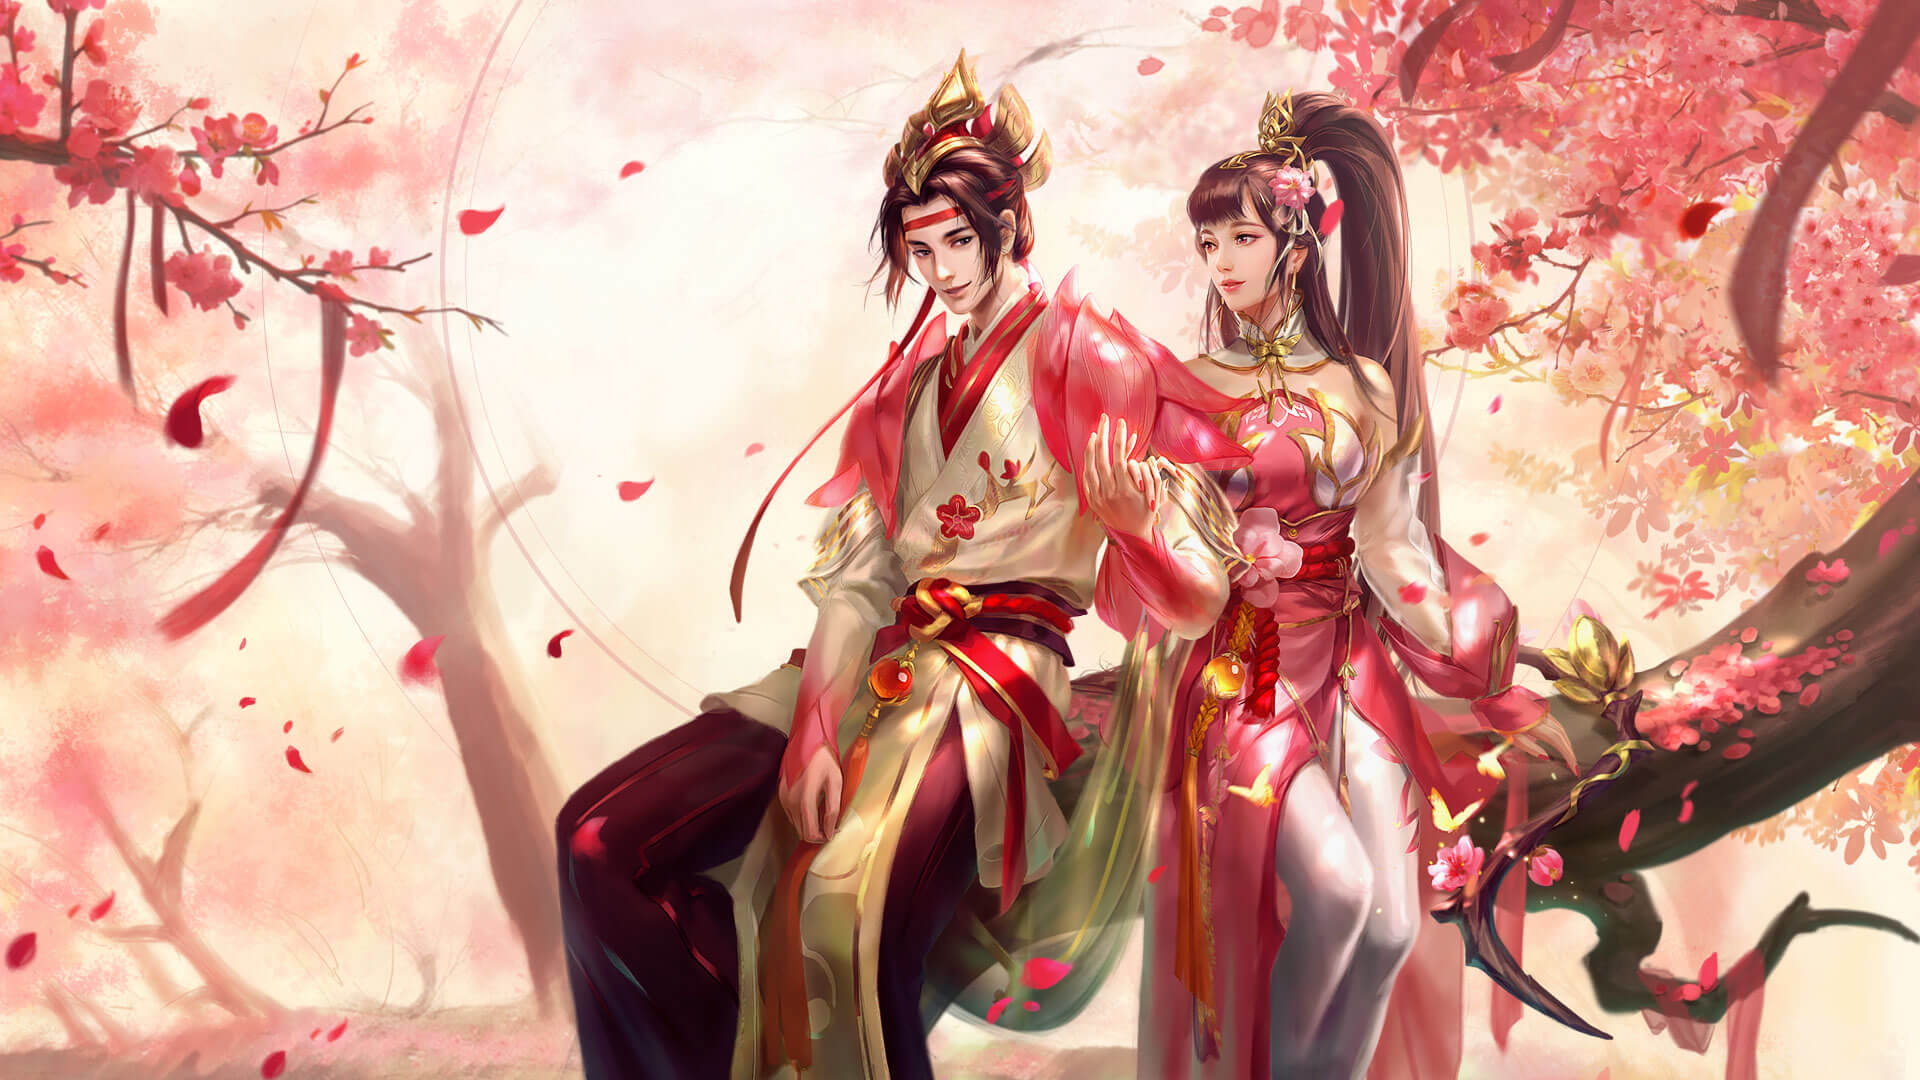
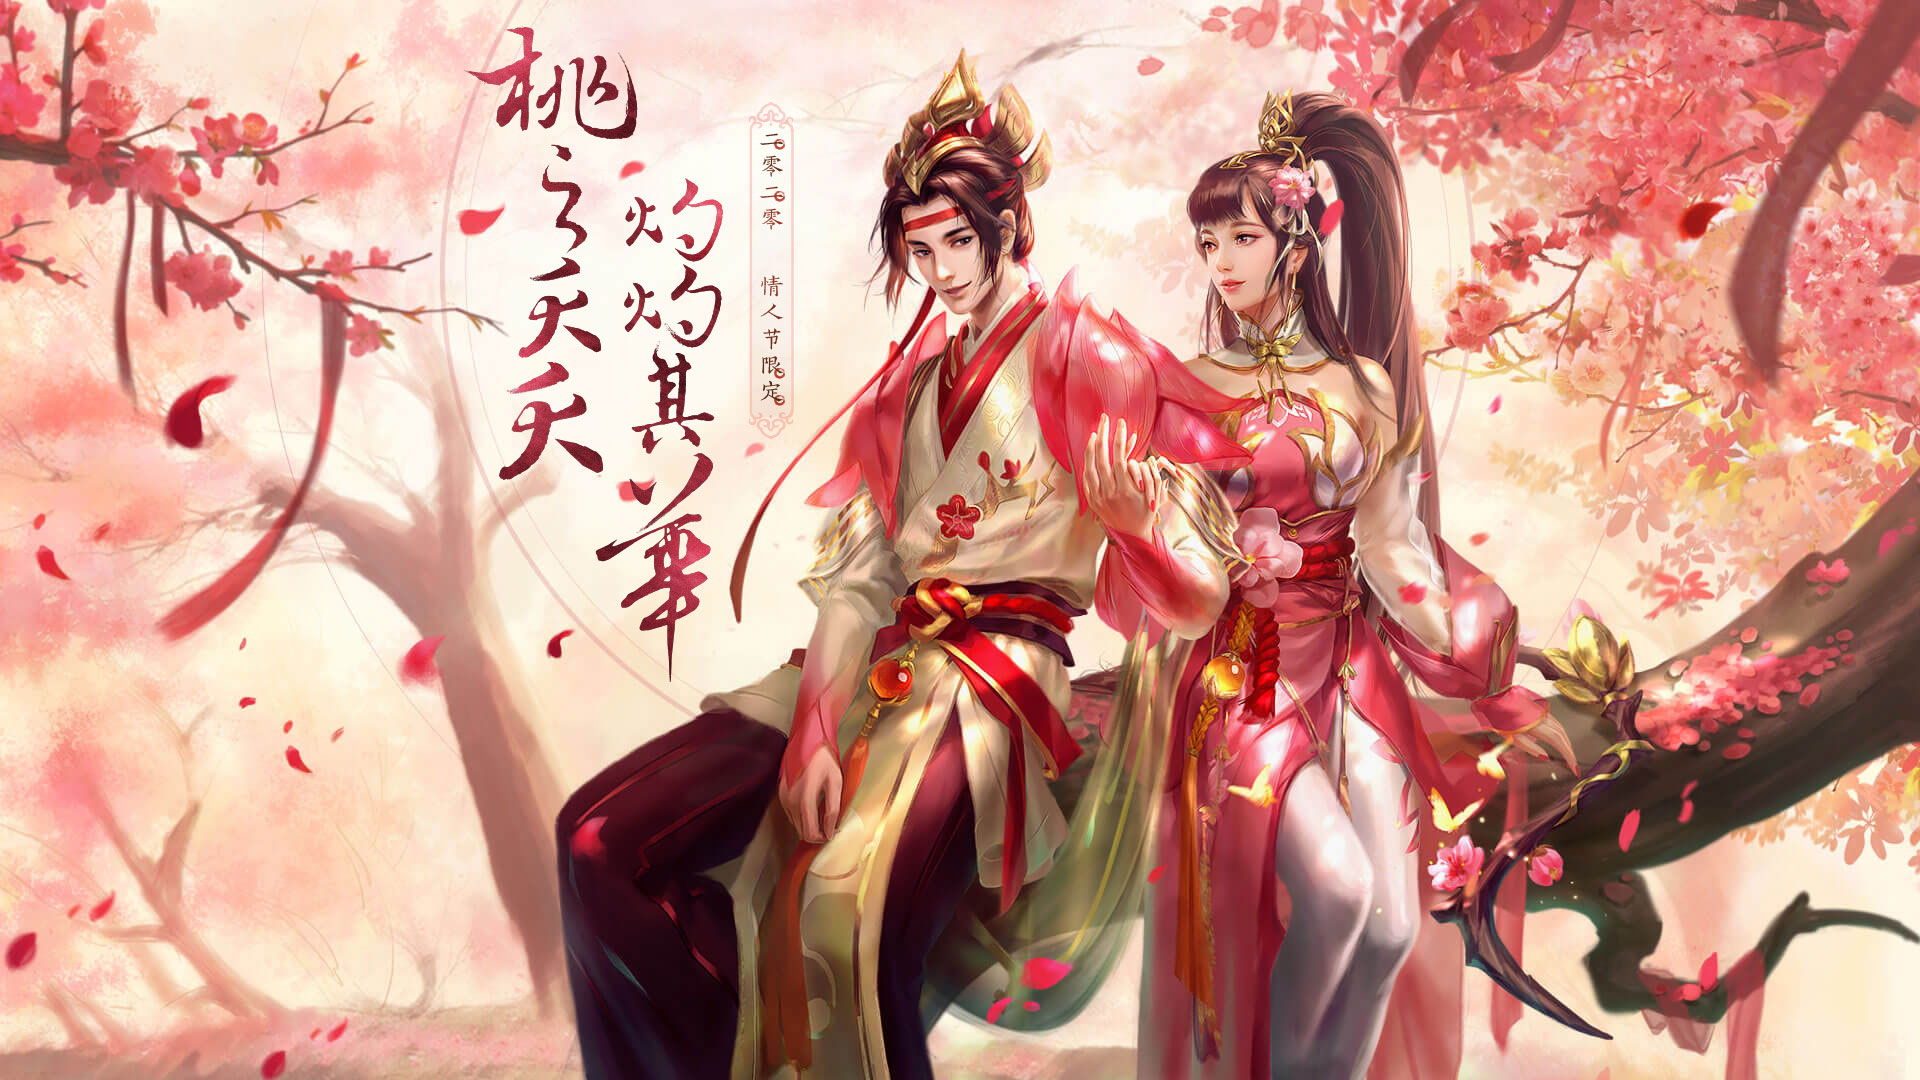
mainTitle
mainTitle

Changed region(s): [[0.25, 0.0306, 0.4062, 0.6111]]

diff --git a/evt202002/css/common.pc.css b/evt202002/css/common.pc.css
@@ -103,6 +103,7 @@ body {
     position: relative;
     font-size: 14px;
     box-sizing: border-box;
+    overflow: hidden;
 
     /* Center slide text vertically */
     /* display: -webkit-box;
@@ -132,6 +133,7 @@ body {
 .slide-content {
     width: 100%;
     height: 100%;
+    box-sizing: border-box;
 }
 
 .cover {
@@ -141,8 +143,7 @@ body {
     width: 100%;
     height: 100%;
     background-image: url(../images/cover.jpg);
-    background-size: 100% 100%;
-    background-position: top center;
+    background-position: center 42px;
     z-index: 10;
 }
 
@@ -400,7 +401,7 @@ body {
 .m-skill {
     position: absolute;
     left: 50%;
-    bottom: 0;
+    bottom: -42px;
     transform: translateX(-50%);
 }
 
@@ -432,7 +433,7 @@ body {
 }
 
 .m-skill .char-img .trriger:hover {
-    transform: scale(1.3);
+    transform: scale(1.1);
 }
 
 .char-img .trriger.c-1 {

diff --git a/evt202002/index.html b/evt202002/index.html
@@ -53,7 +53,7 @@
     <div class="u-mask"></div>
 
     <div class="cover">
-        <div class="main-title"></div>
+        <!-- <div class="main-title"></div> -->
     </div>
 
     <div class="m-viewport">
